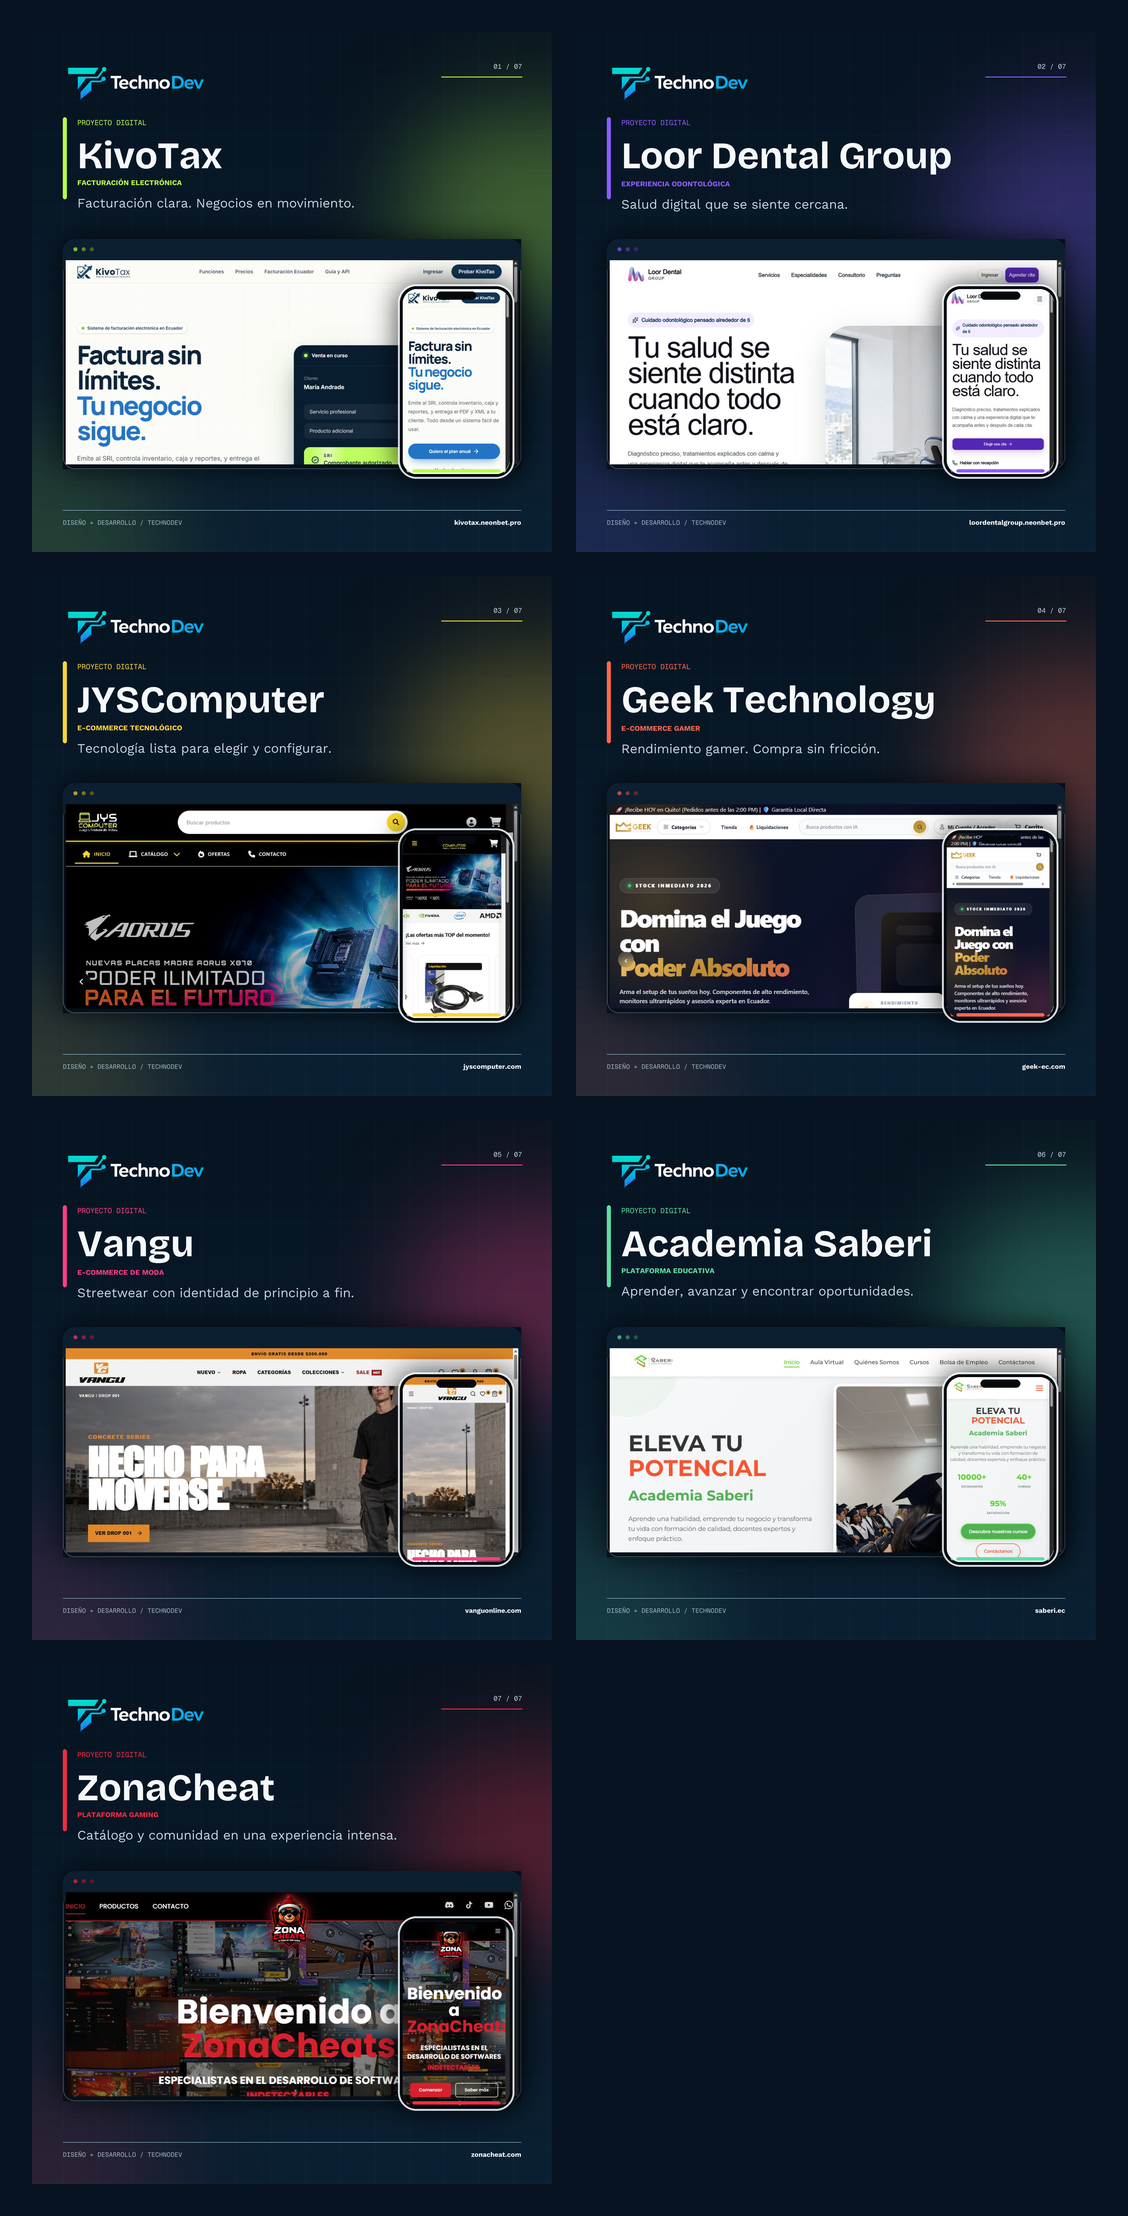
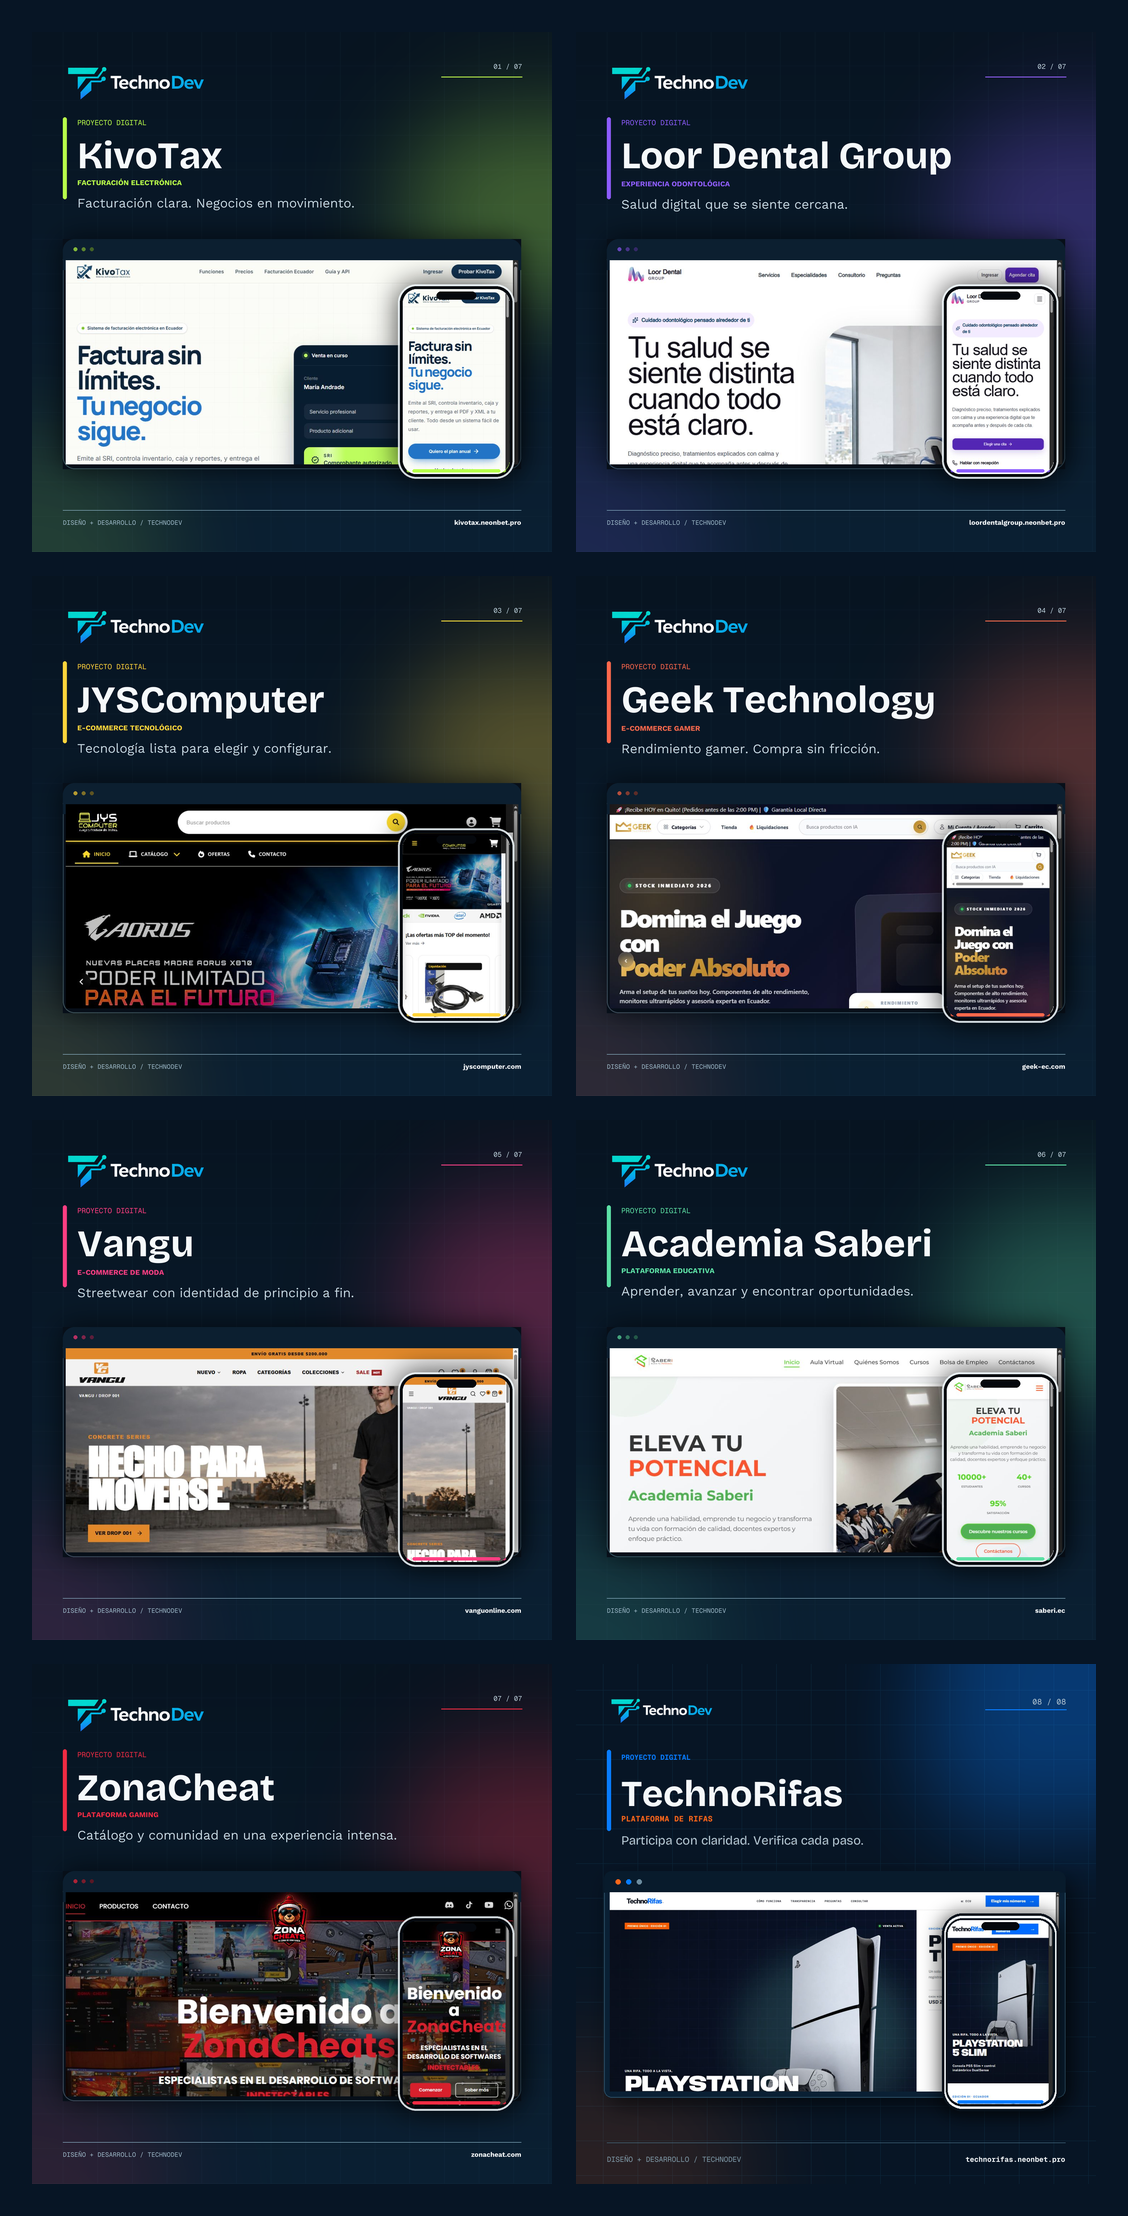
Agrega TechnoRifas al portafolio

Changed region(s): [[0.4965, 0.7473, 0.9929, 0.9964]]

diff --git a/index.html b/index.html
@@ -156,6 +156,7 @@
                 <li>Comercio</li>
                 <li>Educación</li>
                 <li>Gaming</li>
+                <li>Entretenimiento</li>
             </ul>
         </div>
     </section>
@@ -325,7 +326,7 @@
 
             <div class="more-projects-heading fade-in-up">
                 <h3>Más proyectos</h3>
-                <p>E-commerce, educación, gaming y experiencias digitales creadas para marcas en crecimiento.</p>
+                <p>E-commerce, educación, gaming, entretenimiento y experiencias digitales creadas para marcas en crecimiento.</p>
             </div>
 
             <div class="portfolio-grid">
@@ -413,7 +414,7 @@
                     </div>
                 </article>
 
-                <article class="portfolio-card portfolio-card-wide fade-in-up" data-delay="300">
+                <article class="portfolio-card fade-in-up" data-delay="300">
                     <a href="https://zonacheat.com/" class="browser-frame compact-visual" target="_blank"
                         rel="noopener noreferrer" aria-label="Visitar ZonaCheat en una pestaña nueva">
                         <span class="browser-bar" aria-hidden="true"><span class="browser-dots"><i></i><i></i><i></i></span><span class="browser-domain">zonacheat.com</span></span>
@@ -429,6 +430,27 @@
                         <div class="project-actions">
                             <button type="button" class="project-case-button" data-case-open="case-zonacheat">Ver caso</button>
                             <a href="https://zonacheat.com/" class="project-site-link" target="_blank"
+                                rel="noopener noreferrer">Visitar sitio <i class="fa-solid fa-arrow-right"></i></a>
+                        </div>
+                    </div>
+                </article>
+
+                <article class="portfolio-card fade-in-up" data-delay="350">
+                    <a href="https://technorifas.neonbet.pro/" class="browser-frame compact-visual" target="_blank"
+                        rel="noopener noreferrer" aria-label="Visitar TechnoRifas en una pestaña nueva">
+                        <span class="browser-bar" aria-hidden="true"><span class="browser-dots"><i></i><i></i><i></i></span><span class="browser-domain">technorifas.neonbet.pro</span></span>
+                        <span class="project-shot"><img src="assets/project-technorifas.png" width="1905" height="1072"
+                                loading="lazy" decoding="async" alt="Página principal de TechnoRifas"><span
+                                class="project-explore">Explorar <i class="fa-solid fa-arrow-up-right-from-square"></i></span></span>
+                    </a>
+                    <div class="portfolio-info">
+                        <span class="portfolio-category">Plataforma de rifas</span>
+                        <h3>TechnoRifas</h3>
+                        <p>Participaciones digitales, validación de pagos y consulta verificable en una experiencia transparente.</p>
+                        <ul class="project-tags"><li>UX/UI</li><li>Pagos</li><li>Trazabilidad</li><li>Responsive</li></ul>
+                        <div class="project-actions">
+                            <button type="button" class="project-case-button" data-case-open="case-technorifas">Ver caso</button>
+                            <a href="https://technorifas.neonbet.pro/" class="project-site-link" target="_blank"
                                 rel="noopener noreferrer">Visitar sitio <i class="fa-solid fa-arrow-right"></i></a>
                         </div>
                     </div>
@@ -537,6 +559,18 @@
         </div>
     </dialog>
 
+    <dialog class="case-dialog" id="case-technorifas" aria-labelledby="case-technorifas-title">
+        <button type="button" class="case-dialog-close" data-case-close aria-label="Cerrar caso de TechnoRifas"><i class="fa-solid fa-xmark"></i></button>
+        <div class="case-dialog-layout">
+            <div class="case-collage" data-case-collage aria-label="Vistas de TechnoRifas">
+                <figure class="case-collage-item"><img data-collage-src="assets/project-technorifas.png" alt="Página principal de TechnoRifas"><figcaption>Premio y propuesta principal</figcaption></figure>
+                <figure class="case-collage-item"><img data-collage-src="assets/gallery/technorifas-combos.png" alt="Combos de participación en TechnoRifas"><figcaption>Selección de participaciones</figcaption></figure>
+                <figure class="case-collage-item"><img data-collage-src="assets/gallery/technorifas-transparency.png" alt="Consulta y trazabilidad de TechnoRifas"><figcaption>Transparencia y consulta</figcaption></figure>
+            </div>
+            <div class="case-dialog-content"><span class="portfolio-category">Plataforma de rifas</span><h2 id="case-technorifas-title">TechnoRifas</h2><p class="case-summary">Una plataforma ecuatoriana para participar en rifas con información clara, compra organizada y resultados verificables.</p><div class="case-detail"><h3>El reto</h3><p>Transformar un proceso que depende de confianza en una experiencia digital fácil de entender, rastrear y comprobar.</p></div><div class="case-detail"><h3>La solución</h3><p>Diseñamos el recorrido desde la elección de combos hasta el registro del pago, la asignación de números y la consulta privada de cada participación.</p></div><div class="case-detail"><h3>Resultado entregado</h3><p>Un sitio responsive con flujo de participación, validación de pagos, números únicos, consulta y trazabilidad.</p></div><a href="https://technorifas.neonbet.pro/" class="project-case-button" target="_blank" rel="noopener noreferrer">Visitar TechnoRifas <i class="fa-solid fa-arrow-up-right-from-square"></i></a></div>
+        </div>
+    </dialog>
+
     <!-- About Section -->
     <section id="nosotros" class="about section-padding">
         <div class="container">
@@ -556,11 +590,11 @@
 
                     <div class="about-stats">
                         <div class="stat-item">
-                            <span class="stat-number">7</span>
+                            <span class="stat-number">8</span>
                             <span class="stat-label">Proyectos visibles en este portafolio</span>
                         </div>
                         <div class="stat-item">
-                            <span class="stat-number">5</span>
+                            <span class="stat-number">6</span>
                             <span class="stat-label">Sectores representados</span>
                         </div>
                     </div>
